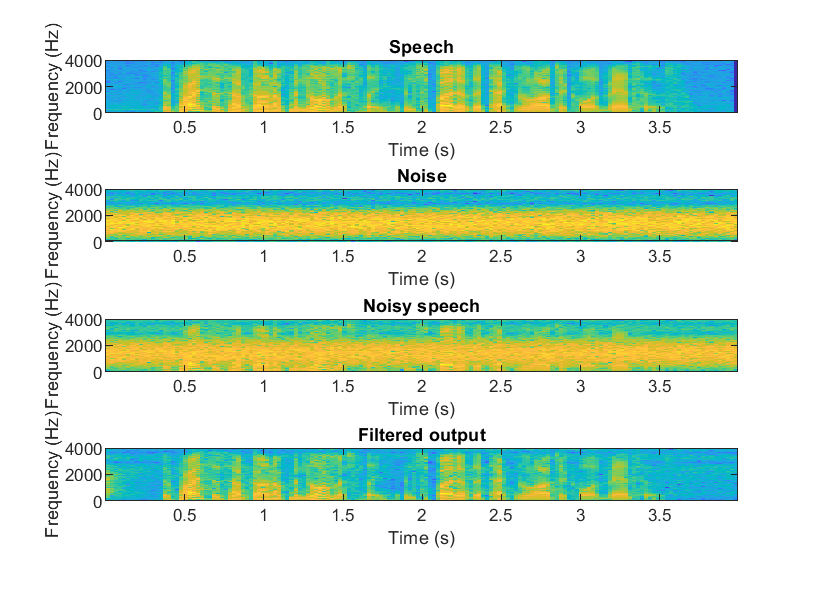
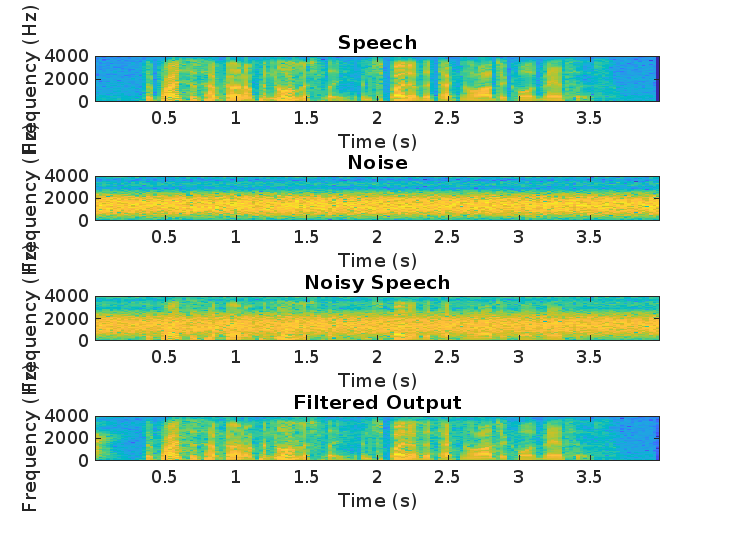
cleaned code

Changed region(s): [[0.0302, 0.0, 0.9053, 0.9324], [0.4527, 0.9013, 0.5734, 0.9324]]

diff --git a/anc.m b/anc.m
@@ -1,29 +1,33 @@
 % Main script
-clear, clc, clf      % clear
-addpath('src');      % add path
-rng('default')       % generate the same random numbers
+clear, clc, clf         % clear
+addpath('src');         % add path
+rng('default')          % generate the same random numbers
 
 % Load data
-load('data/speech')  % load speech
-load('data/noise')   % load noise
-load('data/bpir')    % load filter
-s = speech;          % speech x(n)
-x = noise;           % noise
-Pw = bpir;           % filter P(z)
+load('data/speech')     % load speech
+load('data/noise')      % load noise
+load('data/bpir')       % load filter
+s = speech;             % speech x(n)
+x = noise;              % noise
+Pw = bpir;              % filter P(z)
 
 % Modes
-sim_mode = true;     % simulation mode
-optpara_mode = true; % optimize parameters mode
-ns_mode = true;      % noisy speech demo
+sim_mode = true;        % simulation mode
+optpara_mode = true;    % optimize parameters mode
+ns_mode = true;         % noisy speech mode
 
 % Plot save
-plot_save = true;
-plot_path = 'plots/';
+plot_save = true;       % save the plots
+plot_path = 'plots/';   % path of the plots
 
 % Initializate parameters
-T = 2000;            % iterations
-Nexp = 500;          % experiments
-L = 10;              % filter length
+T = 2000;               % iterations
+Nexp = 500;             % experiments
+L = 10;                 % filter length
+L_vec = 8:16;           % filter length vector
+mu_vec = 0.01:0.01:0.1; % step size vector
+alg = 'LMS';            % algorithm
+play = 'none';          % audio to play
 
 % Run simulate adaptive filters
 if sim_mode == true
@@ -32,16 +36,10 @@ end
 
 % Run optimize parameters
 if optpara_mode == true
-    L_vec = 8:16;           % filter length vector
-    mu_vec = 0.01:0.01:0.1; % step size vector
-    alg = 'LMS';            % algorithm
-    
-    % Optimize Parameters
     [opt_L, opt_mu] = optpara(T, Nexp, L_vec, mu_vec, Pw, alg, plot_save, plot_path);
 end
 
 % Run noise reduction on noisy speech
 if ns_mode == true
-    play = 'none';          % audio to play
     Te = noisyspeech(s, x, L, Pw, play, plot_save, plot_path);
 end

diff --git a/src/noisyspeech.m b/src/noisyspeech.m
@@ -126,7 +126,7 @@ legend('W','LMS','NLMS','RLS','FxLMS','FxNLMS','FxRLS')
 title('Convergence'); xlabel('Time (s)'); ylabel('Error')
 figure(6)
 signals = {s, fx, d, d-yFxRLS};
-titles = [{'Speech'},{'Noise'},{'Noisy speech'},{'Filtered output'}];
+titles = [{'Speech'},{'Noise'},{'Noisy Speech'},{'Filtered Output'}];
 hw = 256; % hamming window size
 np = 50;  % amount of overlap
 for i = 1:length(signals)
